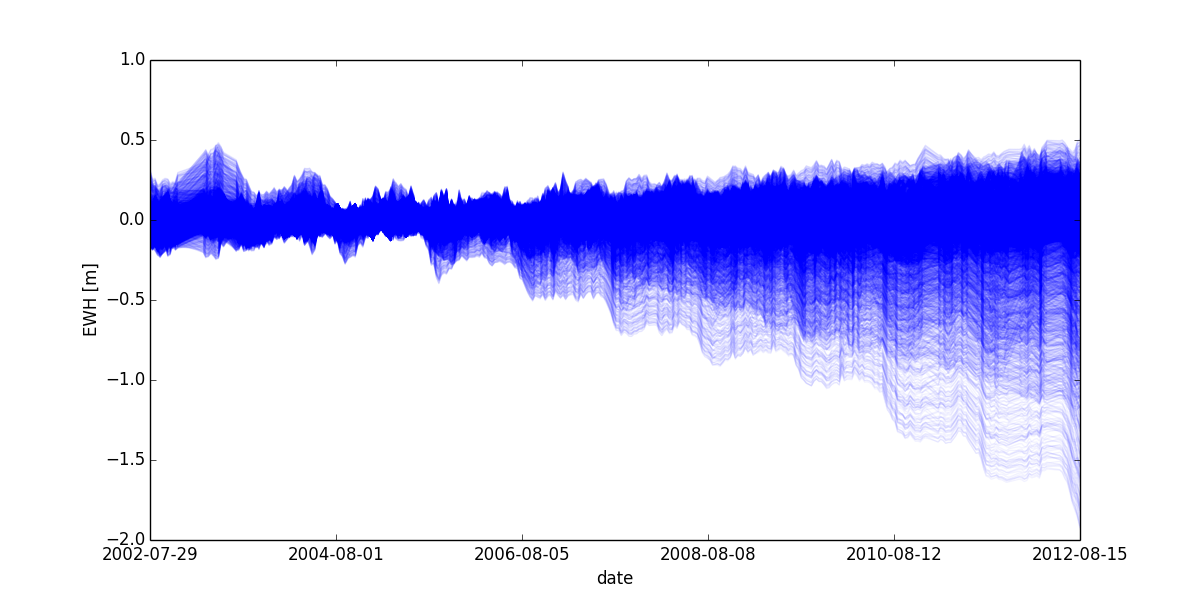
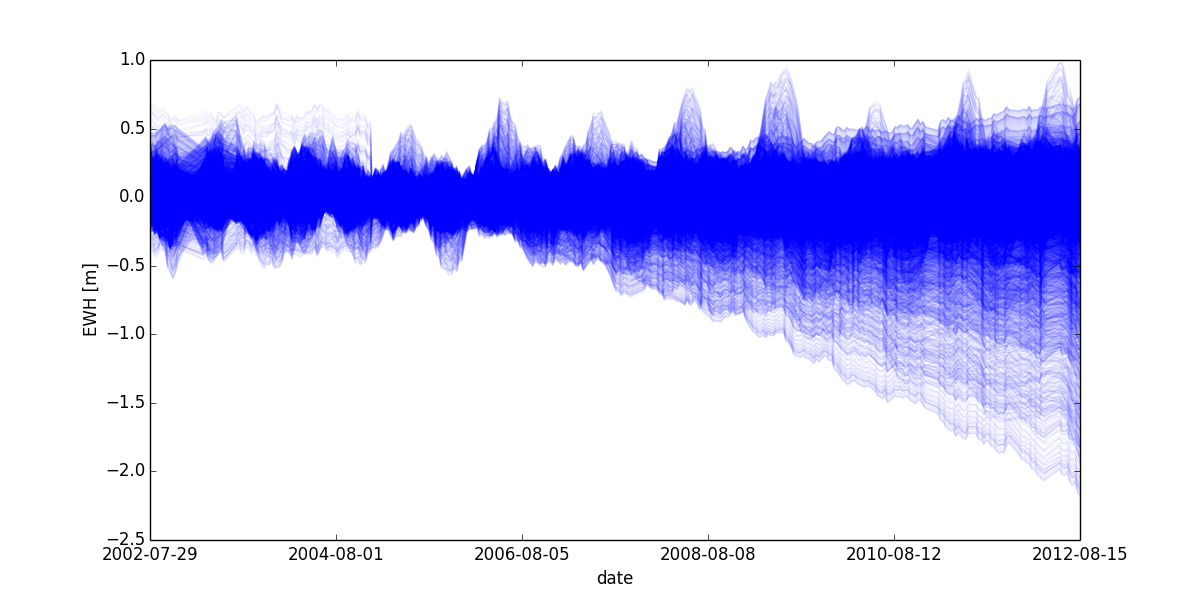
Ran line visualization on all locations

diff --git a/Code/visualize_curves.py b/Code/visualize_curves.py
@@ -18,8 +18,8 @@ Y=Y.A
 
 fig = plt.figure(figsize=(12,6))
 
-# Plot y 
-r=Y.shape[0]-50000
+# Plot curves, uncomment the -50000 for testing
+r=Y.shape[0] #-50000
 for i in range(r):
 	print 'Processing location ' + str(i+1) + ' out of  ' + str(r)
 	plt.plot(days, Y[i,:], 'b-',label='Observations',alpha=0.05)
@@ -32,6 +32,7 @@ plt.xlim(np.min(days), np.max(days))
 plt.ylabel('EWH [m]')
 plt.xlabel('date')
 
-print 'saving and plotting figure'
-fig.savefig("../Rapport/figures/transparent_lines.png")
+print 'plotting figure'
+#uncomment for figure saving
+#fig.savefig("../Rapport/figures/transparent_lines.png")
 plt.show()
